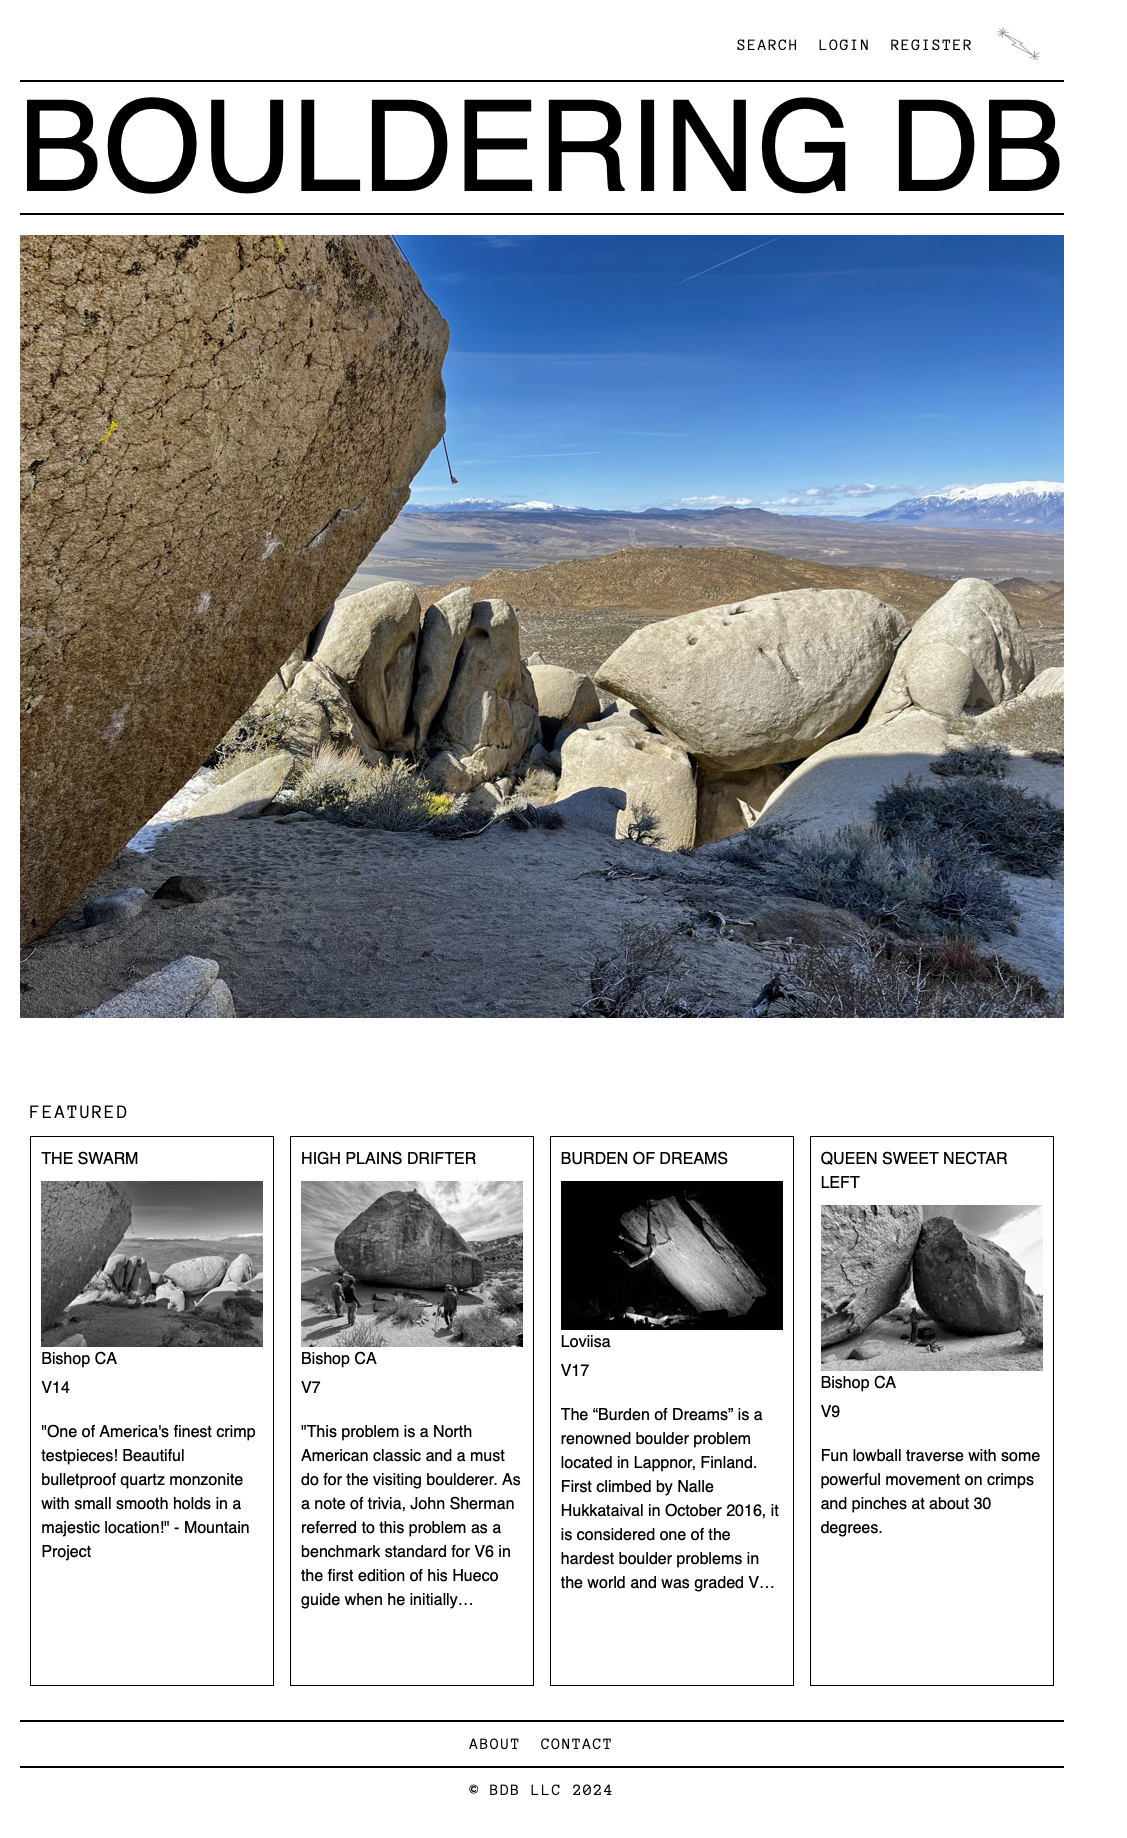
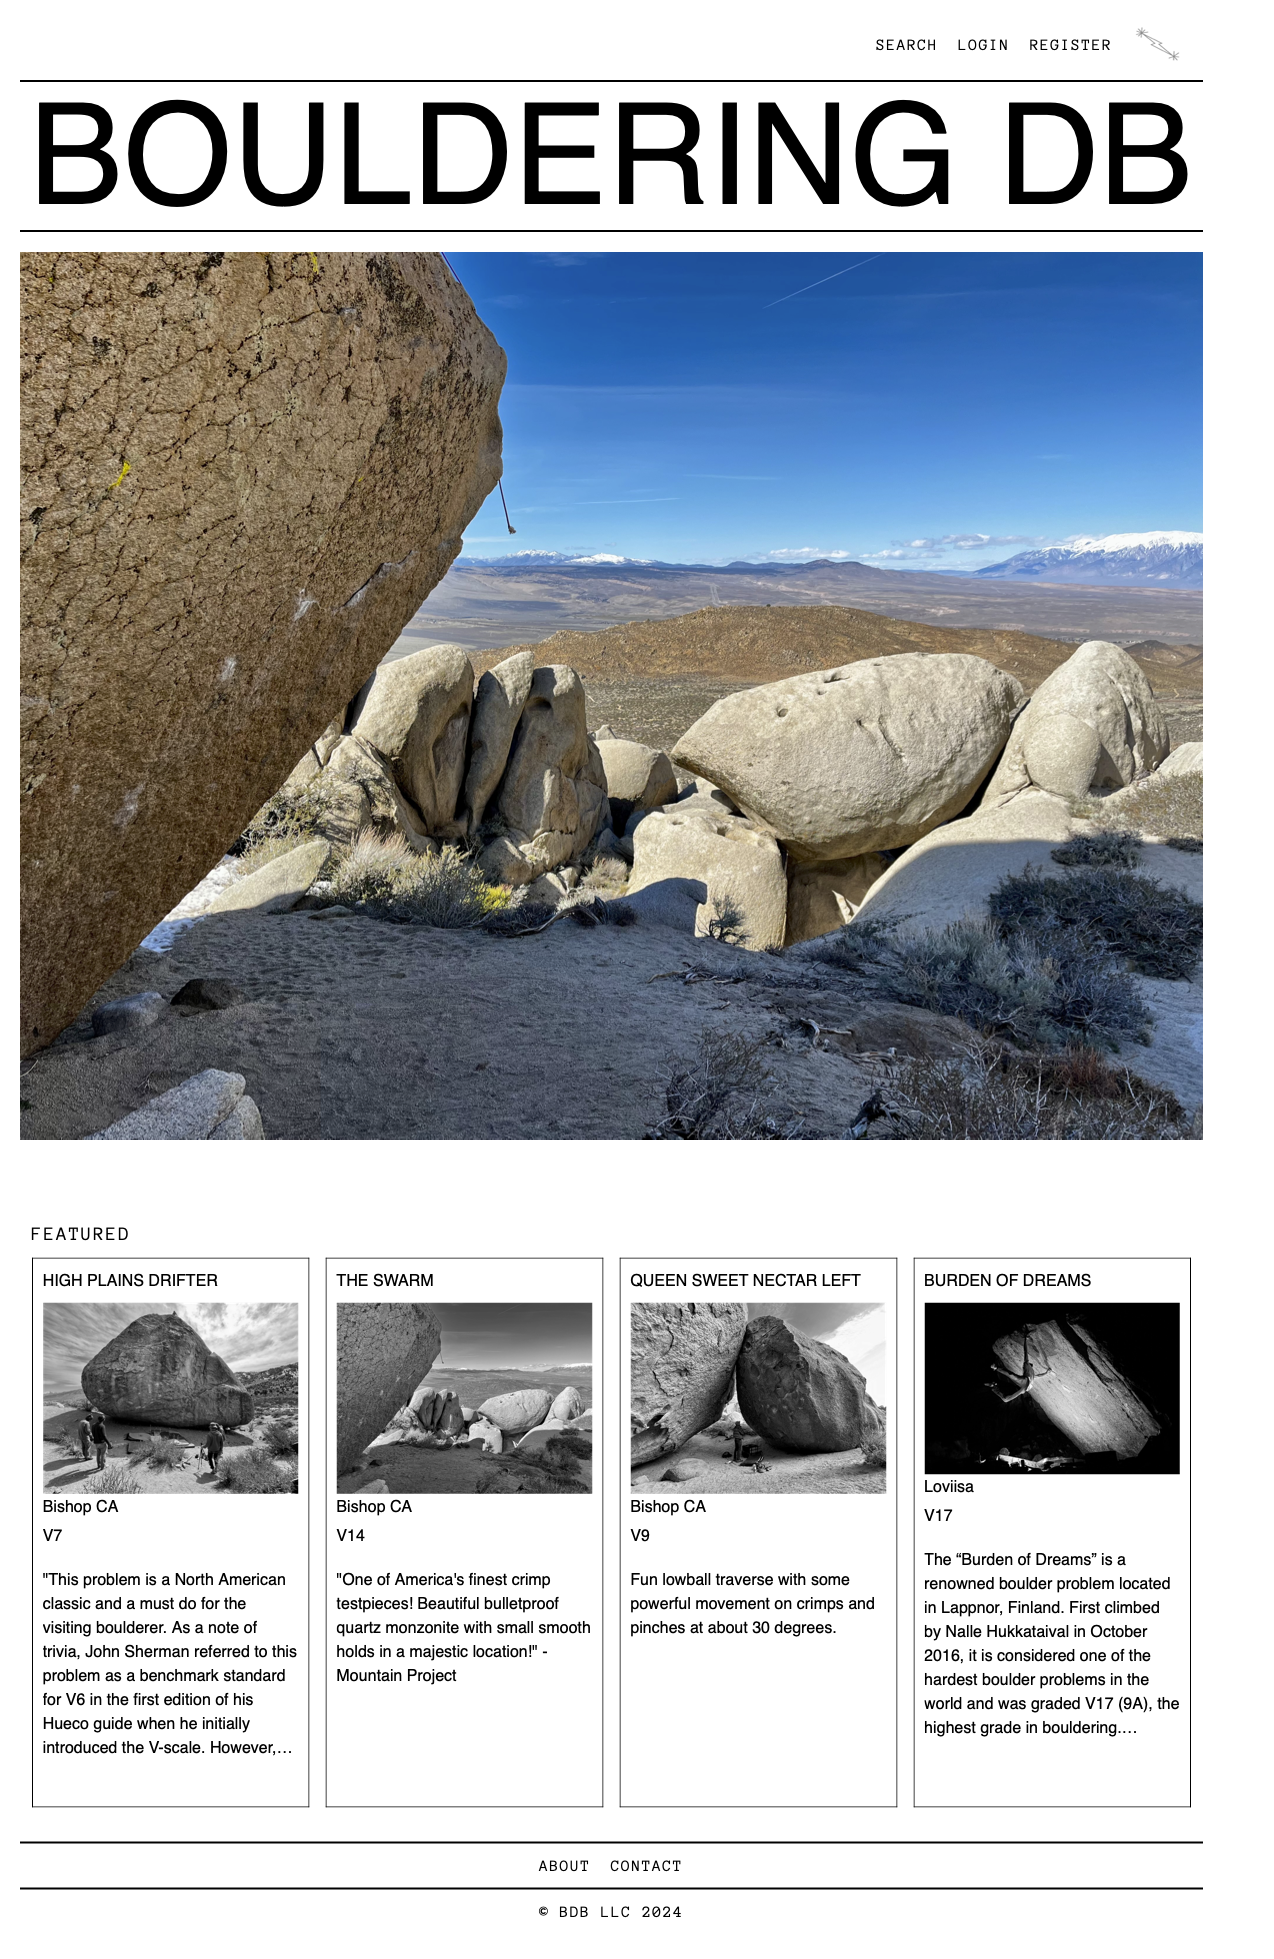
fixed font styling accross all jsps and updated readme photos

diff --git a/README.md b/README.md
@@ -20,13 +20,13 @@ The homepage of Bouldering DB features a selection of highlighted boulder proble
 
 ## Search Page
 
-![Search Page](src/main/webapp/pub/media/readme/Search.jpeg)
+![Search Page](src/main/webapp/pub/media/readme/Search.png)
 
 The search page allows users to search for boulder problems or other users by name. Simply enter a search term in the input field and press the "SEARCH" button to view results.
 
 ## Login Page
 
-![Login Page](src/main/webapp/pub/media/readme/Login.jpeg)
+![Login Page](src/main/webapp/pub/media/readme/Login.png)
 
 Users can log in to their Bouldering DB account through this page. Enter your registered email and password to gain access to your profile and other features of the site. If you don't have an account, a link is provided to register.
 
@@ -38,19 +38,19 @@ New users can sign up for Bouldering DB on this page. You'll be asked to provide
 
 ## Profile Page
 
-![Profile Page](src/main/webapp/pub/media/readme/Profile.jpeg)
+![Profile Page](src/main/webapp/pub/media/readme/Profile.png)
 
 The profile page displays user information such as name, age, height, climbing style, and favorite bouldering locations. Users can also edit their profile details here.
 
 ## Add Boulder Problem Page
 
-![Add Boulder Problem Page](src/main/webapp/pub/media/readme/AddBoulder.png)
+![Add Boulder Problem Page](src/main/webapp/pub/media/readme/BoulderInput.png)
 
 This page allows users to contribute to the Bouldering DB by adding new boulder problems. Provide details such as the problem's name, location, first ascensionist, grade, and history. Users can also upload an image to showcase the problem.
 
 ## Boulder Page
 
-![Boulder Page](src/main/webapp/pub/media/readme/BoulderPage.jpeg)
+![Boulder Page](src/main/webapp/pub/media/readme/BoulderPage.png)
 
 Once boulder problems are submitted to the database, users can view them here and see all database information displayed cleanly and concisely. Beta (comments, etc.) is hidden by default in order to protect climbers who want an onsight experience. Only registered/logged-in (authorized) users can edit a boulder page.
 
